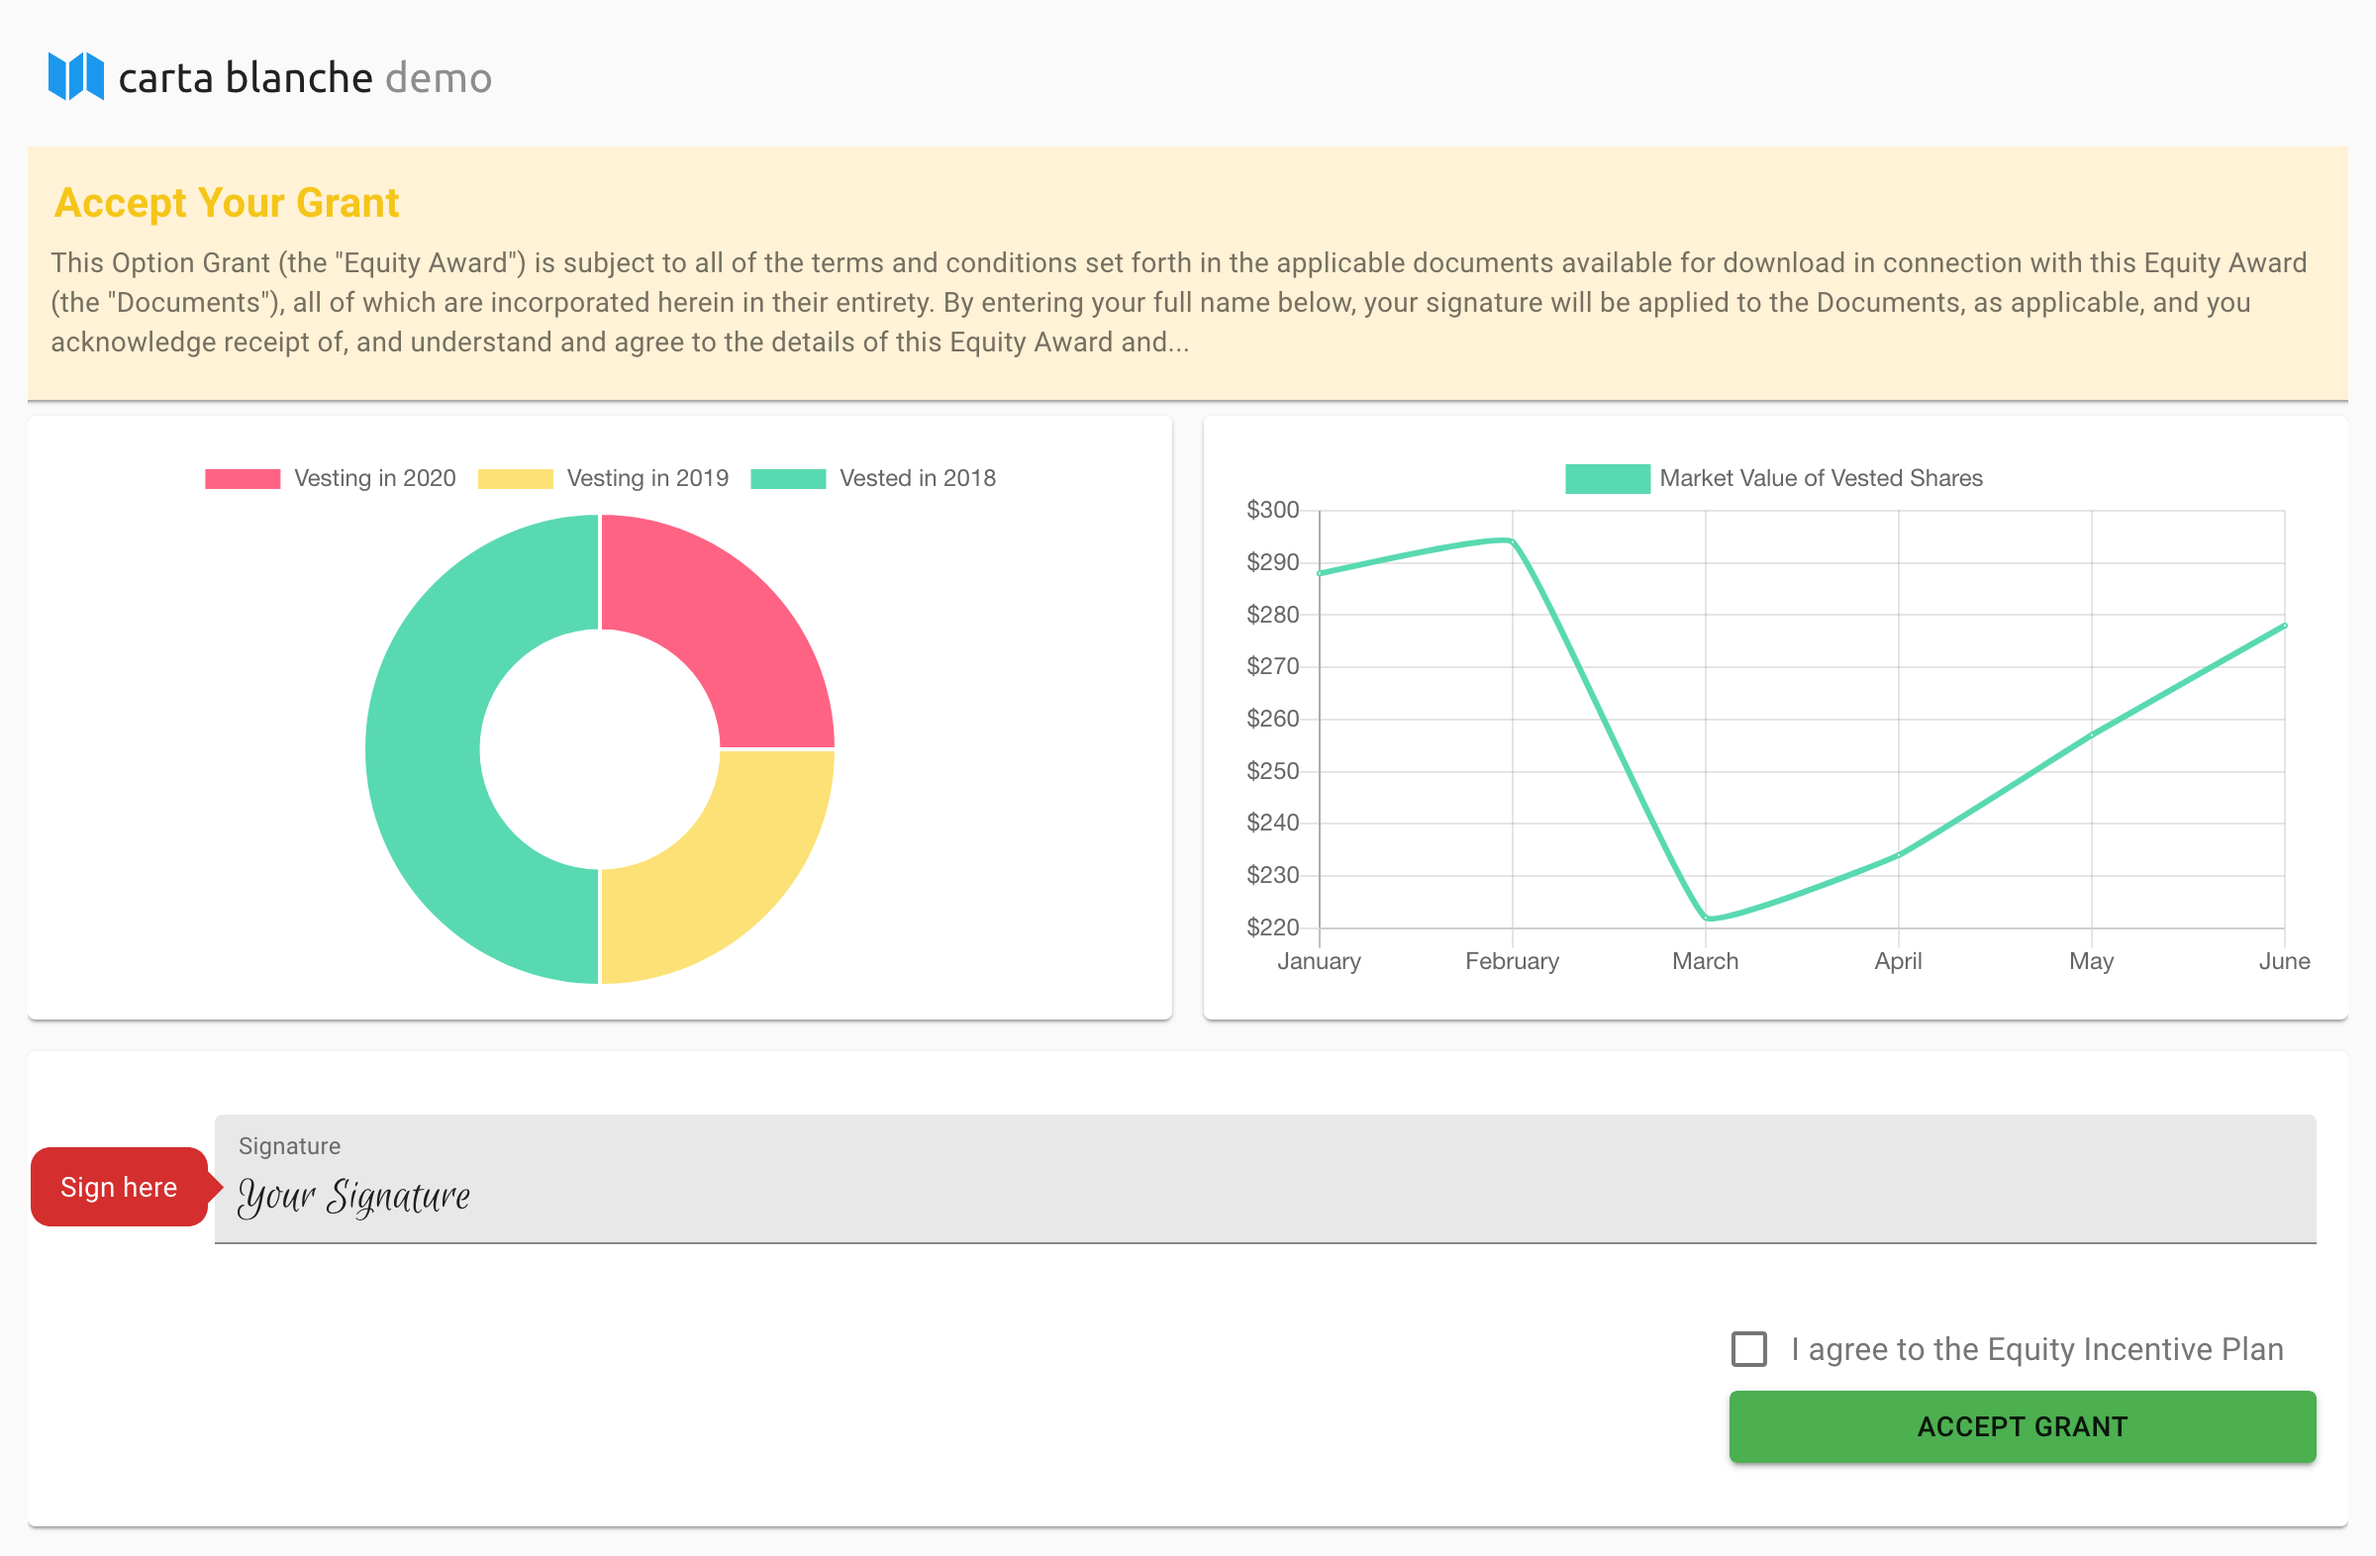
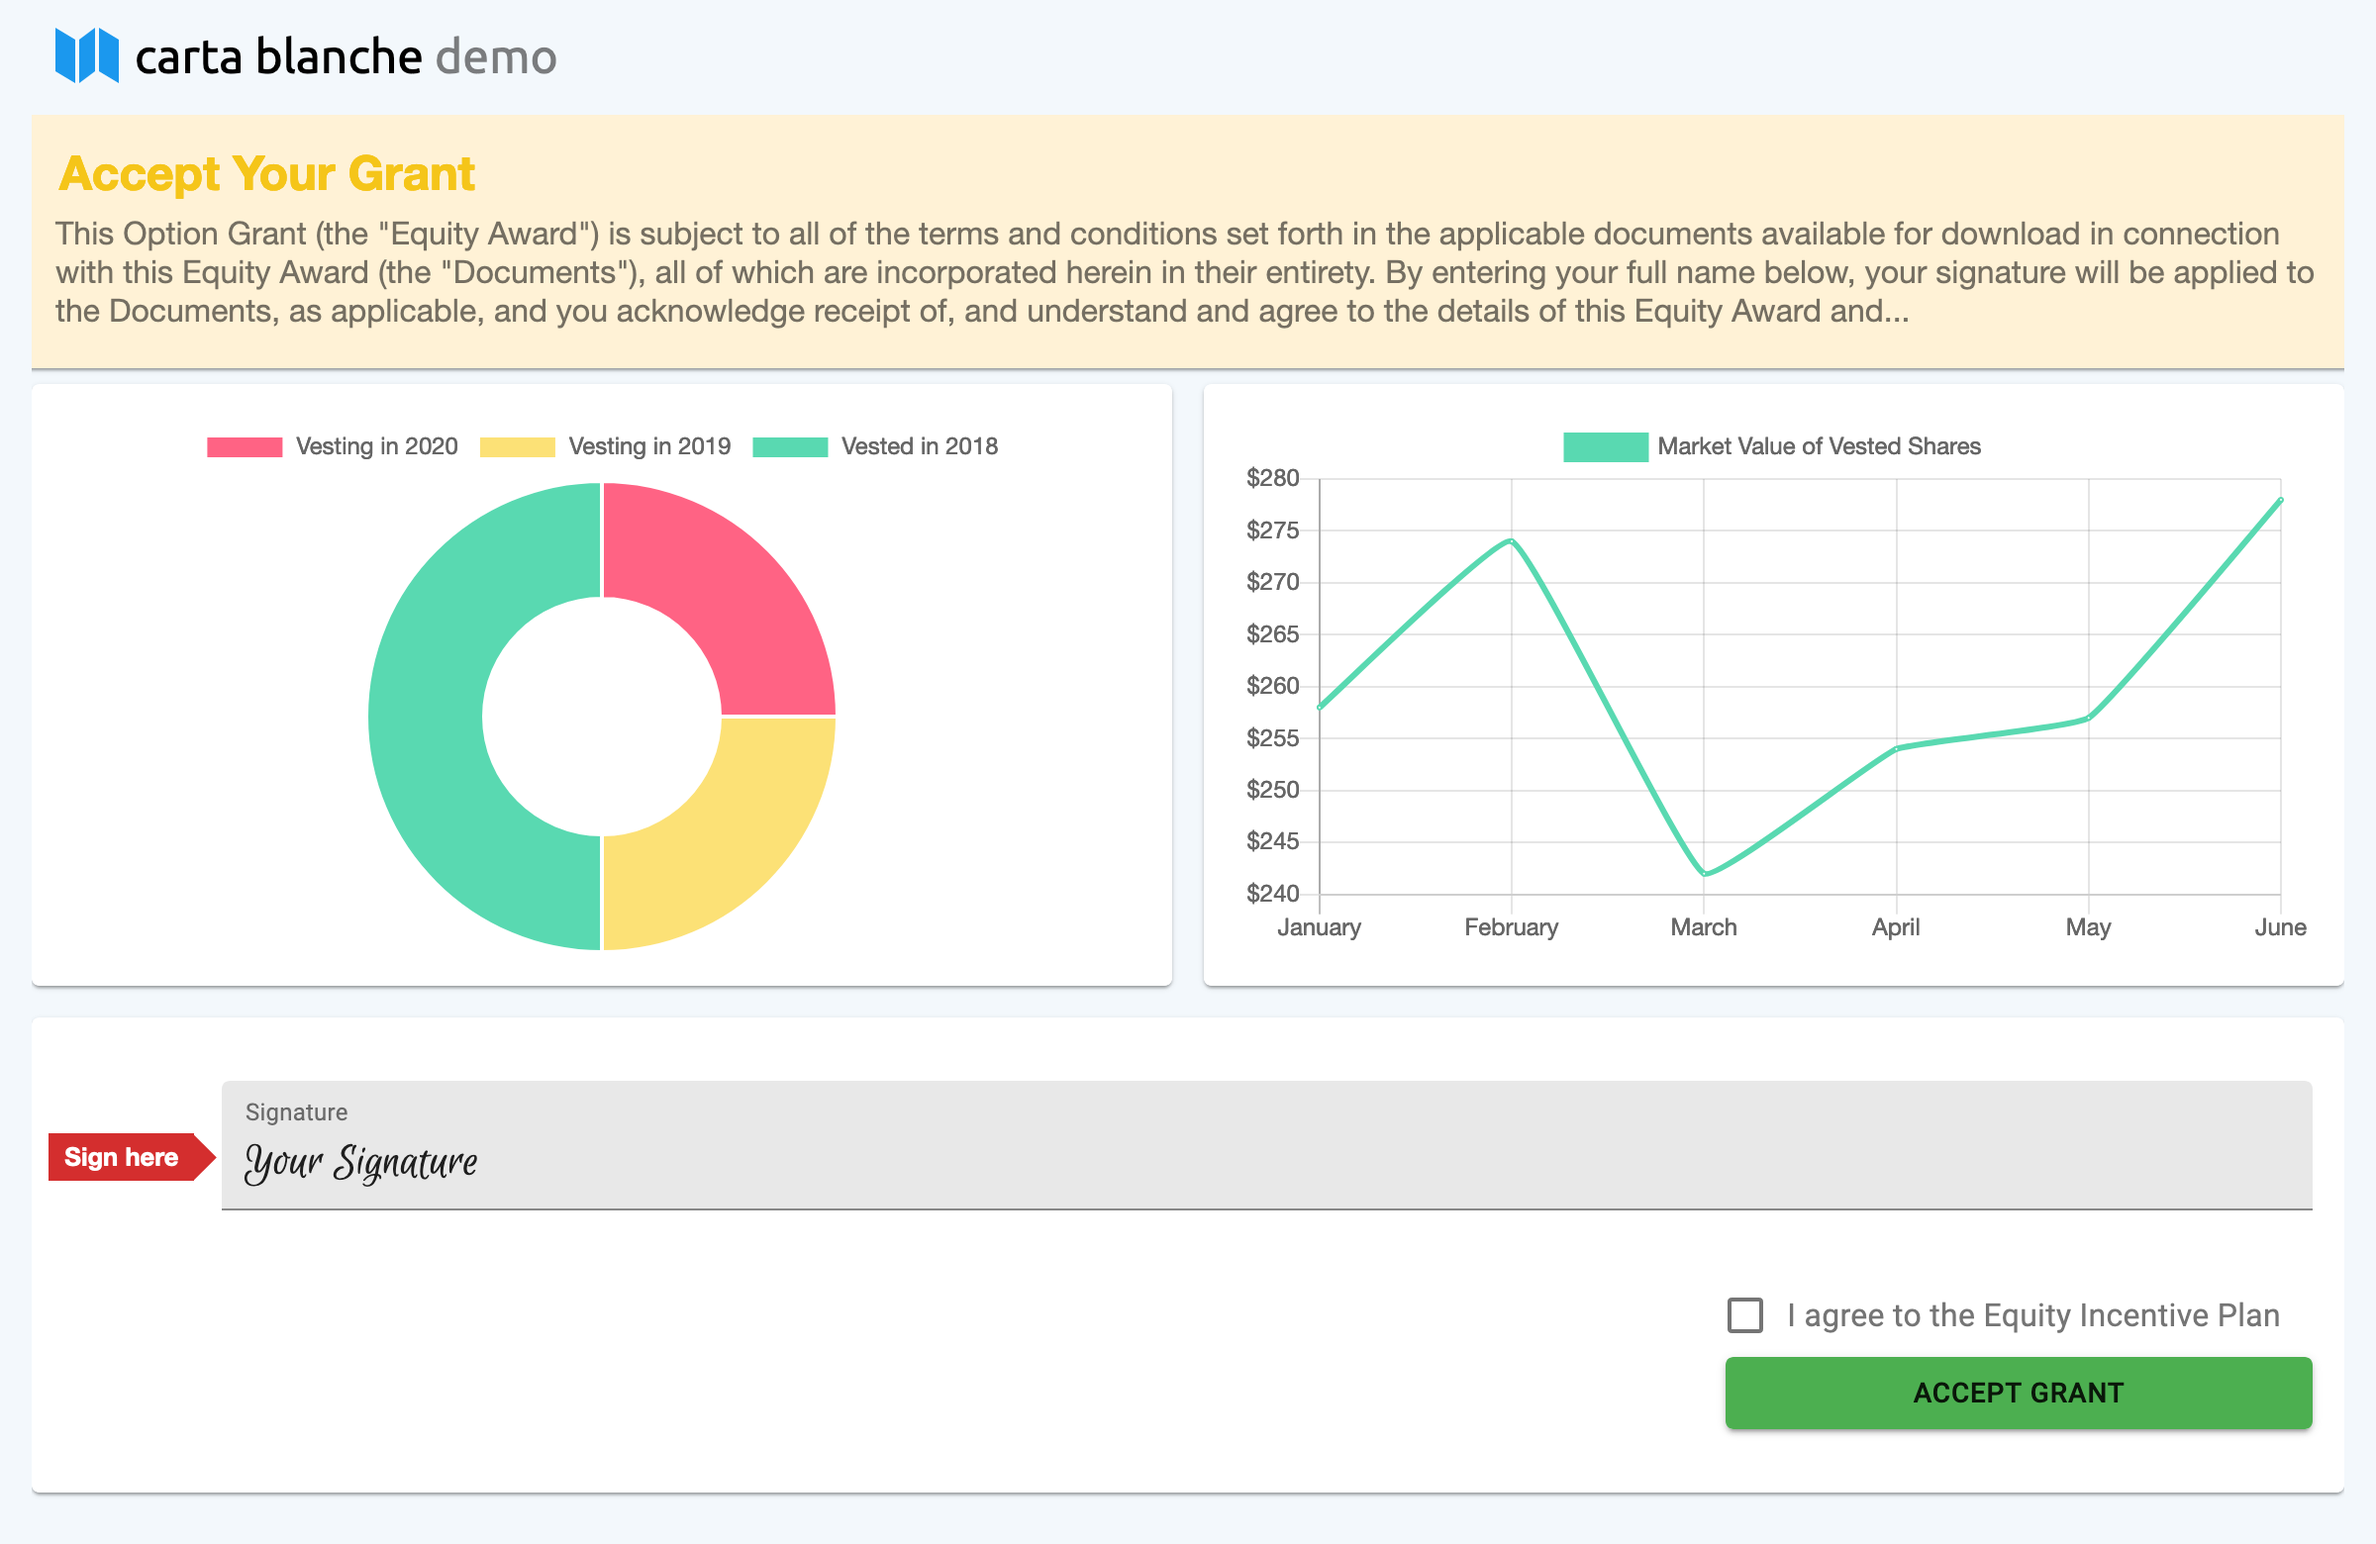
Update styling, lineChart, and screenshot

diff --git a/src/App.css b/src/App.css
@@ -4,7 +4,8 @@
 body {
   margin: 0;
   font-family: 'Helvetica Neue', 'Helvetica', sans-serif;
-  padding: 1em;
+  padding: 0em 1em 1em 1em;
+  background-color: #f3f8fc;
 }
 
 h1, h2, h3, h4, h5, h6 {
@@ -26,7 +27,7 @@ a:visited {
 
 /* Header and logo */
 #header {
-  height: 60px;
+  height: 50px;
   padding: 0.25em;
 }
 #logo_icon img {
@@ -67,10 +68,10 @@ h2, #paperGrant p {
 }
 .tooltip::after {
 	background-color: #d42e2e;
-  font-size: 0.9em;
+  font-size: 0.8em;
   font-weight: bold;
 	color: #FFF;
-	padding: 5px 10px;
+	padding: 4px 8px;
 	position: absolute;
 	text-align: center;
 	z-index: 999;
@@ -79,8 +80,8 @@ h2, #paperGrant p {
 	background-color: #d42e2e;
 	content: ' ';
 	position: absolute;
-	width: 15px;
-	height: 15px;
+	width: 16.5px;
+	height: 16.5px;
 	z-index: 999;
 }
 .tooltip:hover::after {
@@ -96,7 +97,7 @@ h2, #paperGrant p {
 	transform: translateX(calc(-10%));
 }
 .tooltip.left::before {
-	top: 51%;
-	left: 79px;
+	top: 46.5%;
+	left: 74px;
 	transform: translate(calc(-100%)) rotate(45deg);
 }

diff --git a/src/components/lineGraph.js b/src/components/lineGraph.js
@@ -41,7 +41,7 @@ const data = {
             pointHoverBorderWidth: 2,
             pointRadius: 1,
             pointHitRadius: 10,
-            data: [288, 294, 222, 234, 257, 278]
+            data: [258, 274, 242, 254, 257, 278]
         }
     ]
 };
